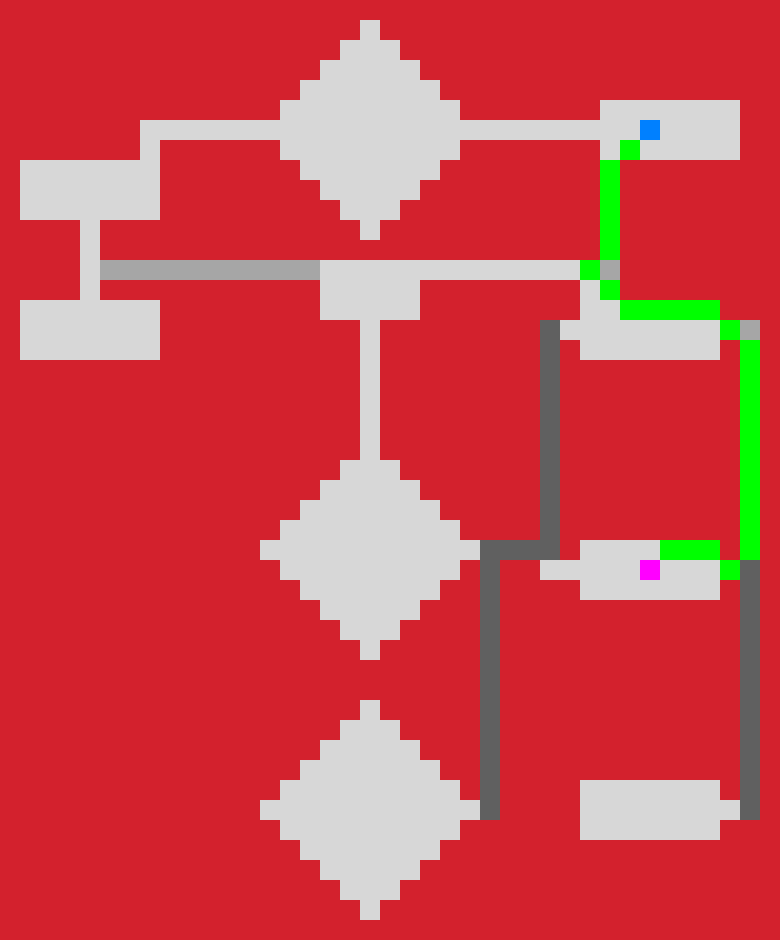
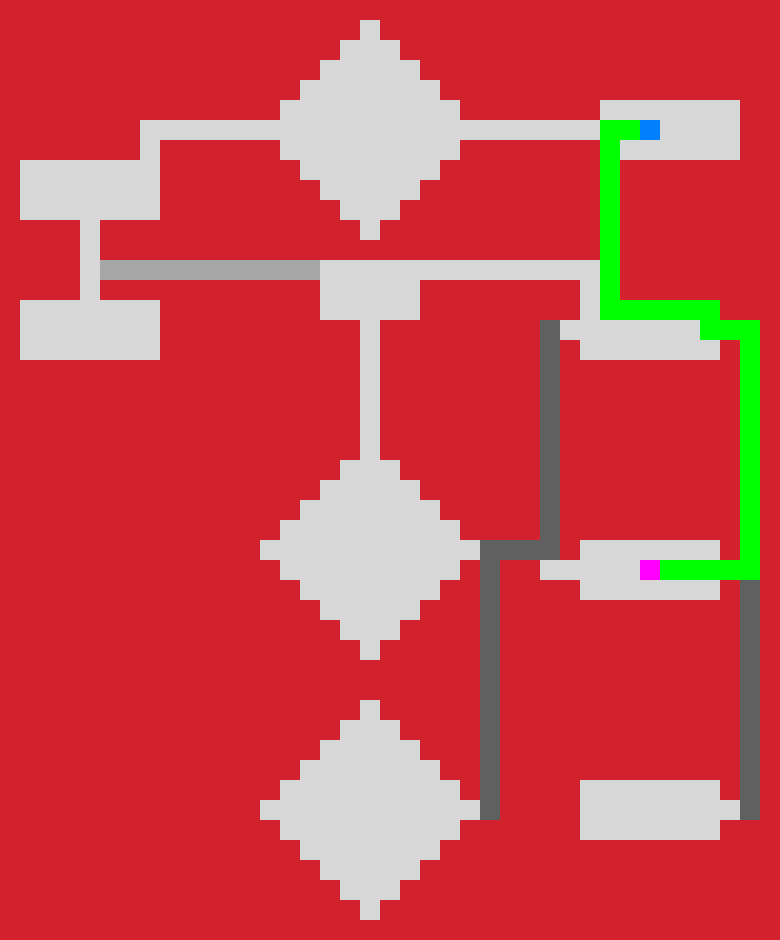
Feat: Remove illegal moves on the diagonal

diff --git a/src/a_star.py b/src/a_star.py
@@ -45,7 +45,6 @@ class Frontier:
     def is_empty(self):
         """ Checks if the frontier is empty """
         return len(self.frontier) == 0
-    
 
 def a_star(map: Map, start_pos: list[int, int]=None, goal_pos: list[int, int]=None):
     """
@@ -106,20 +105,17 @@ def a_star(map: Map, start_pos: list[int, int]=None, goal_pos: list[int, int]=No
                 if neighbor not in frontier.get_frontier():
                     frontier.insert(neighbor, tentative_cost_to_reach)
     return None
+
 def reconstruct_path(came_from: dict, current: list[int, int]) -> list[list[int, int]]:
     """
     Reconstructs the path from the start to the goal node
+    
+    Args:
+        came_from (dict):  Dictionary with the path from the start to the goal node
+        current (list[int, int]): The goal node
 
-    Parameters
-    ----------
-    came_from : dict
-        Dictionary with the path from the start to the goal node
-    current : list[int, int]
-        The goal node
-
-    Returns
-    -------
-    list[list[int, int]]
+    Returns:
+        list[list[int, int]]
         The path from the start to the goal node
     """
     total_path = [current]
@@ -136,15 +132,11 @@ def a_star_heuristic(current_pos: list[int, int], goal_pos: list[int, int]) -> f
     """
     A heuristic function for A*. Calculates the manhattan distance
 
-    Parameters
-    ----------
-    pos : list[int, int]
-        Position for which we want to calculate the heuristic
-
-    Returns
-    -------
-    float
-        Heuristic value for `pos`
+    Args:
+        current_pos (list[int, int]): The current position
+        goal_pos (list[int, int]): The goal position
+    Returns:
+        float: The heuristic value
     """
     # Calculate the heuristic value for the given position
     # Manhatten distance = |x1 - x2| + |y1 - y2|

diff --git a/src/Map.py b/src/Map.py
@@ -295,8 +295,7 @@ class Map_Obj(Map):
         Moves the current goal position every 4th call if current goal
         position is not already at the end_goal position.
 
-        Returns
-        -------
+        Returns:
         pos : list[int, int]
             New position of the goal.
         """
@@ -466,17 +465,12 @@ class Map_Obj(Map):
     def get_neighbors(self, position: list[int, int]) -> list[list[int, int]]:
         """ Find all legal neighbors of a position"""
         neighbors = []
-        
-        # Check all 8 neighbors
-        for x in range(-1, 2):
-            for y in range(-1, 2):
-                # Skip the current position
-                if x == 0 and y == 0:
-                    continue
-                # Check if the neighbor is valid
-                neighbor = [position[0] + x, position[1] + y]
-                if self._is_valid_neighbor(neighbor):
-                    neighbors.append(neighbor)
+
+        directions = [[0, 1], [0, -1], [1, 0], [-1, 0]]
+        for direction in directions:
+            neighbor = [position[0] + direction[0], position[1] + direction[1]]
+            if self._is_valid_neighbor(neighbor):
+                neighbors.append(neighbor)
         return neighbors
     
     def _is_valid_neighbor(self, position: list[int, int]) -> bool:

diff --git a/src/visualize_exploration.py b/src/visualize_exploration.py
@@ -5,7 +5,7 @@ from copy import deepcopy
 from src.Map import Map
 from src.a_star import Frontier, a_star_heuristic, reconstruct_path
 
-def a_star_with_visualization(map: Map, start_pos: list[int, int]=None, goal_pos: list[int, int]=None):
+def a_star_with_visualization(map: Map, start_pos: list[int, int]=None, goal_pos: list[int, int]=None) -> list:
     """
     A* algorithm implementation
 

diff --git a/tests/test_a_star.py b/tests/test_a_star.py
@@ -113,7 +113,7 @@ def test_reconstructing_path_when_no_path_exists():
     # Act
     total_path = reconstruct_path(came_from, current)
     # Assert
-    assert total_path == [(0, 3)]
+    assert total_path == [current]
 
 def test_reconstructing_path_when_start_is_goal():
     # Arrange

diff --git a/README.md b/README.md
@@ -28,7 +28,7 @@
       </ul>
     </li>
     <li><a href="#Tests">Tests</a></li>
-    <li><a href="#license">License</a></li>    
+    <li><a href="#license">License</a></li>
     <li><a href="#acknowledgment">Acknowledgment</a></li>
   </ol>
 </details>
@@ -112,3 +112,11 @@ Thanks to the following libraries:
 - [NumPy](https://numpy.org/) for numerical computing
 - [Panadas](https://pandas.pydata.org/) for data analysis
 
+### Acknowledgment
+The dataset of Samfundet (https://www.samfundet.no/) is not made by me, and most of the code in the class Map_Obj was created by Håkon Måløy then later extended and documented by Xavier Sánchez-Díaz.
+
+Thanks to the following libraries:
+- [Pillow](https://pillow.readthedocs.io/en/stable/) for image manipulation
+- [Pytest](https://docs.pytest.org/en/stable/) for testing
+- [NumPy](https://numpy.org/) for numerical computing
+- [Panadas](https://pandas.pydata.org/) for data analysis
